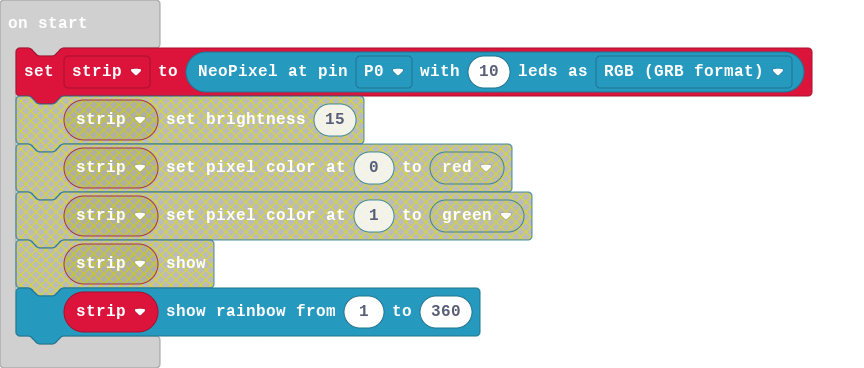
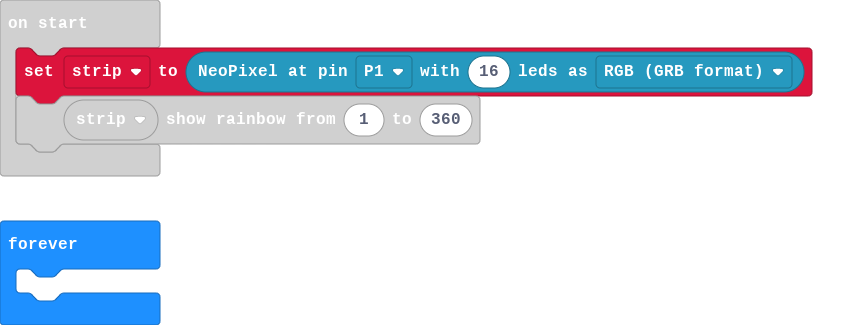
16 leds

diff --git a/main.ts b/main.ts
@@ -1,2 +1,5 @@
-let strip = neopixel.create(DigitalPin.P0, 10, NeoPixelMode.RGB)
+let strip = neopixel.create(DigitalPin.P1, 16, NeoPixelMode.RGB)
 strip.showRainbow(1, 360)
+basic.forever(function () {
+	
+})
